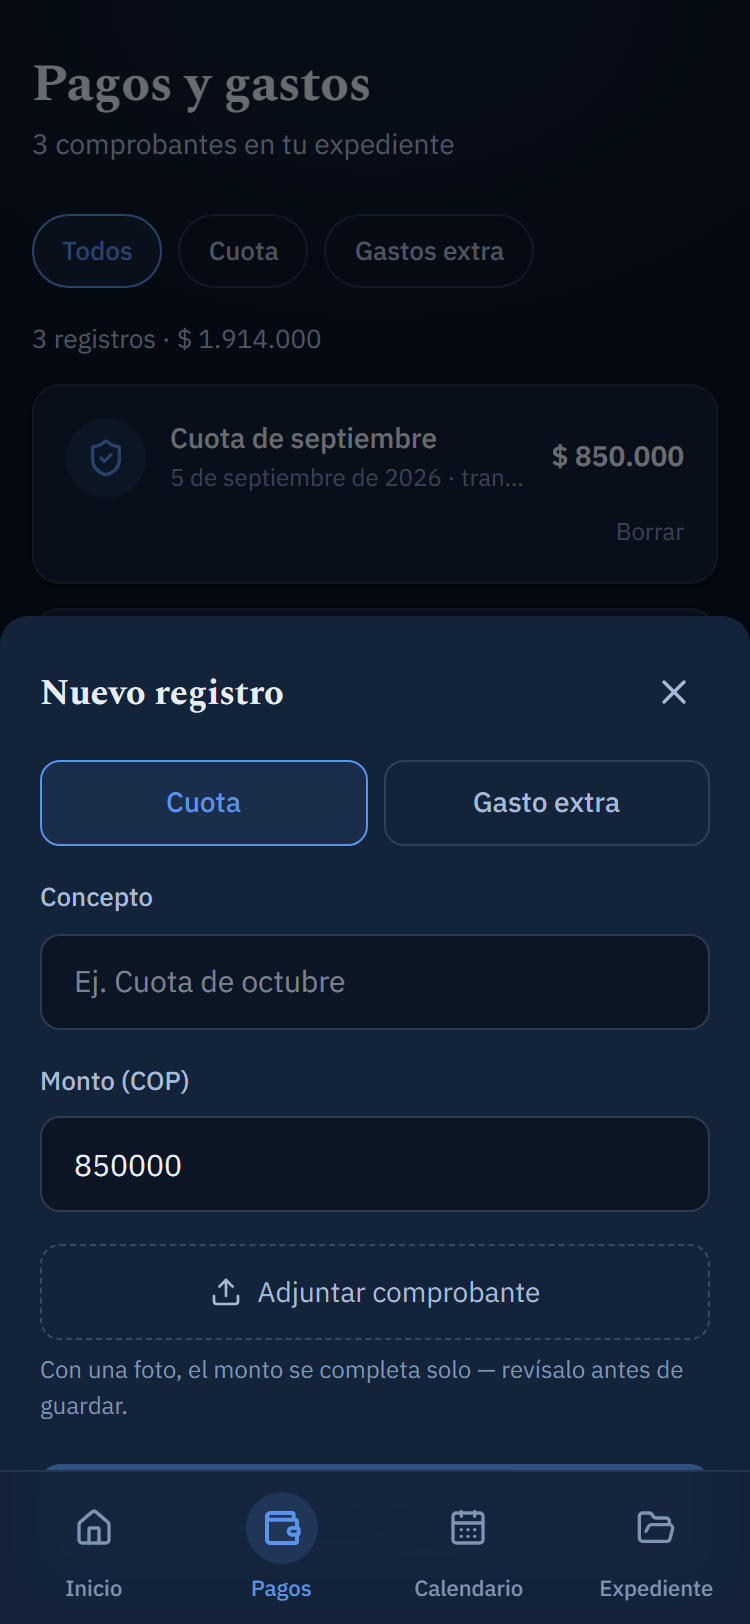
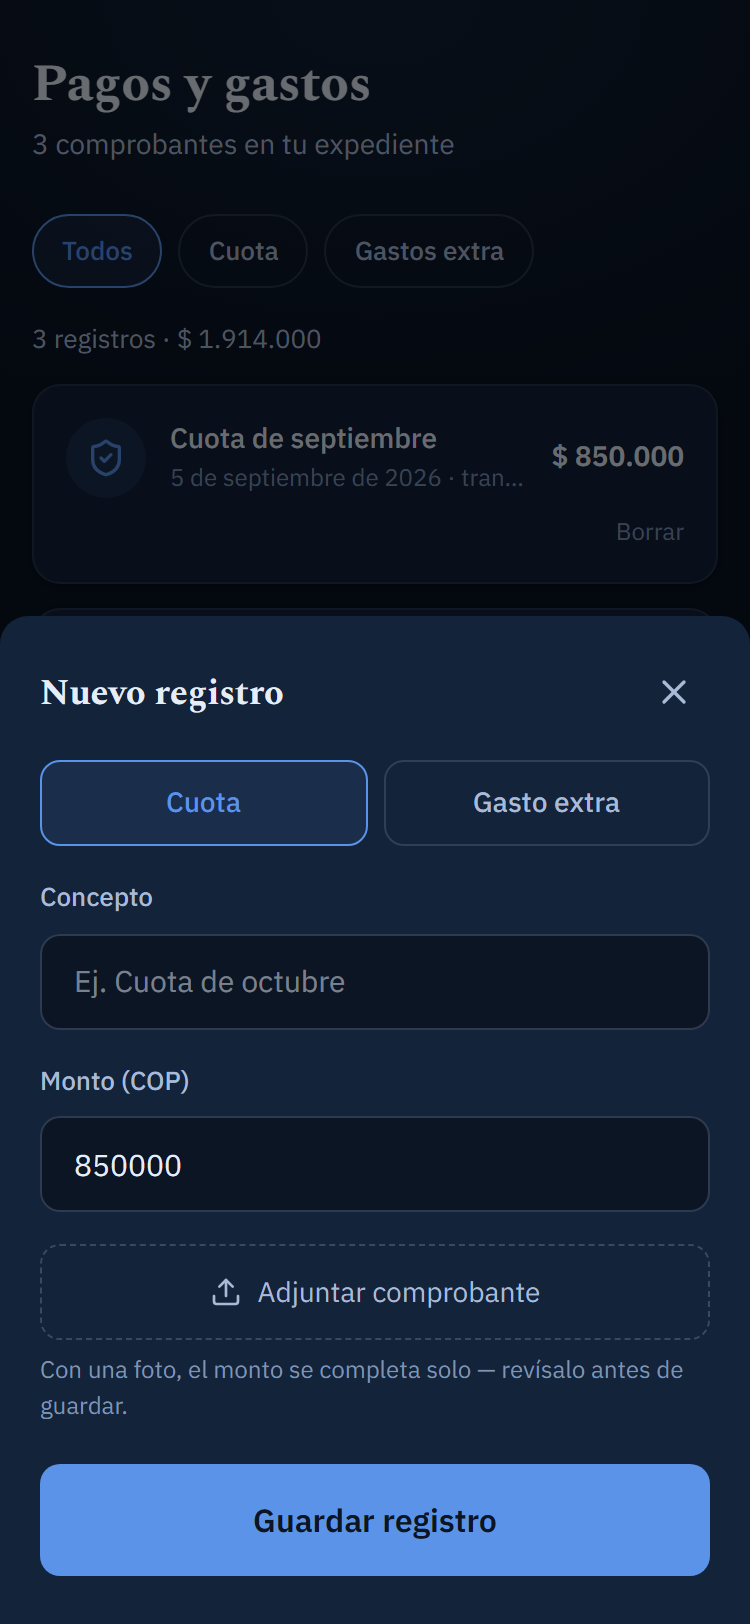
fix: el CTA del formulario quedaba TAPADO por el menu inferior
REGRESION MIA, grave y silenciosa. Al agregar la luz ambiental de fondo,
ContenedorApp paso a llevar 'relative isolate'. 'isolate' crea un
CONTEXTO DE APILAMIENTO: dentro de el, los z-index de los hijos solo
compiten entre ellos, no contra el resto de la pagina. Resultado: el
modal de registro (z-30), el visor de imagenes (z-40) y el Sello de
Confianza (z-40) quedaron atrapados y se pintaban DEBAJO del nav
inferior (z-20), que vive fuera, en el layout.

El sintoma: en el formulario de registro el nav tapaba 'Guardar
registro' -la accion primaria de todo el flujo- y solo asomaban unos
pixeles. Subir el z-index no lo arregla: mientras el elemento viva
dentro del contexto aislado, ningun numero lo saca. La solucion correcta
es montarlo fuera, en el body: nuevo <Portal>.

Verificado con Playwright, no por inspeccion: en el punto central del
CTA, document.elementFromPoint devuelve el propio boton (no el nav), el
boton entra completo en pantalla y es clicable.
(Mi primera medicion dio un falso positivo porque medi SUPERPOSICION
geometrica en vez de que elemento esta encima; una hoja modal se
superpone al nav a proposito.)

Ademas, del mismo veredicto:
- La prop 'conBotonFlotante' habia quedado en la rama de ERROR de Inicio
  -que ni siquiera tiene boton- en vez del Dashboard. Corregido: ahora
  el boton cae en el espacio vacio y ya no pisa la ultima tarjeta.
- El boton 'Guardar registro' estaba muerto al 40% sin decir que
[…]

Changed region(s): [[0.0307, 0.8929, 0.9507, 0.9852]]

diff --git a/app/(app)/pagos/page.tsx b/app/(app)/pagos/page.tsx
@@ -10,6 +10,7 @@ import { motion, AnimatePresence } from 'motion/react';
 import { Upload, ShieldCheck, FileCheck2, X, ChevronRight, Sparkles } from 'lucide-react';
 import { ContenedorApp, PageHeader, Tarjeta, IconoCirculo, BotonFlotante, ErrorDeCarga } from '@/components/app/ui';
 import { VisorImagen } from '@/components/app/VisorImagen';
+import { Portal } from '@/components/app/Portal';
 import { SelloConfianza } from '@/components/app/SelloConfianza';
 import { VistaPreviaArchivo } from '@/components/app/VistaPreviaArchivo';
 import {
@@ -88,7 +89,7 @@ export default function Pagos() {
     // Antes era `if (!url) return`: la persona tocaba su comprobante, no pasaba NADA y no sabia
     // si el archivo se habia perdido o si la app estaba rota. El silencio es el peor error.
     if (!url) {
-      setErrorFila({ id: p.id, mensaje: "No pudimos abrir este comprobante. Revisa tu conexion e intentalo de nuevo." });
+      setErrorFila({ id: p.id, mensaje: 'No pudimos abrir este comprobante. Revisa tu conexión e inténtalo de nuevo.' });
       return;
     }
     setErrorFila(null);
@@ -242,6 +243,7 @@ export default function Pagos() {
         Registrar
       </BotonFlotante>
 
+      <Portal>
       <AnimatePresence>
         {modalAbierto && (
           <ModalRegistro
@@ -256,12 +258,17 @@ export default function Pagos() {
           />
         )}
       </AnimatePresence>
+      </Portal>
 
+      <Portal>
       <AnimatePresence>
         {selloDe && <SelloConfianza fecha={formatoFechaLarga(selloDe)} onTerminar={() => setSelloDe(null)} />}
       </AnimatePresence>
+      </Portal>
 
-      <VisorImagen url={urlVisor} onCerrar={() => setUrlVisor(null)} />
+      <Portal>
+        <VisorImagen url={urlVisor} onCerrar={() => setUrlVisor(null)} />
+      </Portal>
     </ContenedorApp>
   );
 }
@@ -278,9 +285,13 @@ function ModalRegistro({ onCerrar, onGuardado }: { onCerrar: () => void; onGuard
   const inputRef = useRef<HTMLInputElement>(null);
 
   useEffect(() => {
-    obtenerTitulo().then((t: Titulo | null) => {
-      if (t) setMonto(String(t.montoMensual));
-    });
+    // Con .catch: si falla, el campo queda vacio para escribir a mano en vez de dejar un rechazo
+    // sin manejar en la consola.
+    obtenerTitulo()
+      .then((t: Titulo | null) => {
+        if (t) setMonto(String(t.montoMensual));
+      })
+      .catch(() => {});
   }, []);
 
   // Lector automático de recibos: al elegir la foto, se le pide a la IA que lea el monto y se
@@ -312,8 +323,25 @@ function ModalRegistro({ onCerrar, onGuardado }: { onCerrar: () => void; onGuard
     }
   };
 
+  // Qué falta para poder guardar, dicho en palabras. Se calcula solo al INTENTAR guardar (no
+  // mientras se escribe): regañar antes de que la persona termine de llenar es hostil.
+  const [faltante, setFaltante] = useState<string | null>(null);
+
   const guardar = (): void => {
-    if (!archivo || !monto || !concepto.trim()) return;
+    if (procesando) return;
+    if (!concepto.trim()) {
+      setFaltante('Falta el concepto: escribe de qué es este pago.');
+      return;
+    }
+    if (!monto) {
+      setFaltante('Falta el monto.');
+      return;
+    }
+    if (!archivo) {
+      setFaltante('Falta el comprobante: adjunta la foto o el PDF.');
+      return;
+    }
+    setFaltante(null);
     setProcesando(true);
     agregarPago(
       {
@@ -447,14 +475,22 @@ function ModalRegistro({ onCerrar, onGuardado }: { onCerrar: () => void; onGuard
           </button>
         )}
         {errorArchivo ? (
-          <p className="mt-1.5 text-[12px] text-[var(--status-error)]">{errorArchivo}</p>
+          <p role="alert" className="mt-1.5 text-[12px] text-[var(--status-error)]">{errorArchivo}</p>
         ) : (
           <p className="mt-1.5 text-[12px] text-[var(--text-tertiary)]">Con una foto, el monto se completa solo — revísalo antes de guardar.</p>
         )}
 
+        {/* El botón estaba muerto al 40% sin decir qué faltaba: había que adivinar cuál de los tres
+            campos estaba incompleto. Ahora se ve activo, y al tocarlo dice exactamente qué falta —
+            que es como funciona el editor de Ajustes. Solo se deshabilita mientras guarda. */}
+        {faltante && (
+          <p role="alert" className="mt-3 text-center text-[12.5px] text-[var(--status-error)]">
+            {faltante}
+          </p>
+        )}
         <button
           type="button"
-          disabled={!archivo || !monto || !concepto.trim() || procesando}
+          disabled={procesando}
           onClick={guardar}
           className="mt-5 flex h-14 w-full items-center justify-center rounded-[var(--radius-button)] bg-[var(--accent)] text-[16px] font-semibold text-[var(--bg)] transition-opacity disabled:opacity-40 [touch-action:manipulation]"
         >

diff --git a/app/(app)/calendario/page.tsx b/app/(app)/calendario/page.tsx
@@ -13,6 +13,7 @@ import { motion, AnimatePresence } from 'motion/react';
 import { ChevronLeft, ChevronRight, Plus, X, Users, HeartPulse, Plane, Trophy, Globe, Paperclip } from 'lucide-react';
 import { ContenedorApp, PageHeader, Tarjeta, IconoCirculo, BotonFlotante, ErrorDeCarga } from '@/components/app/ui';
 import { VisorImagen } from '@/components/app/VisorImagen';
+import { Portal } from '@/components/app/Portal';
 import { type Evento, type TipoEvento, obtenerEventos, agregarEvento, obtenerUrlArchivo, formatoFechaLarga, validarArchivoAdjunto } from '@/lib/datos';
 
 const ICONO: Record<TipoEvento, typeof Users> = { visita: Users, medica: HeartPulse, vacaciones: Plane, extracurricular: Trophy, salida_pais: Globe };
@@ -135,6 +136,7 @@ export default function Calendario() {
         Evento
       </BotonFlotante>
 
+      <Portal>
       <AnimatePresence>
         {modalAbierto && (
           <ModalEvento
@@ -147,6 +149,7 @@ export default function Calendario() {
           />
         )}
       </AnimatePresence>
+      </Portal>
     </ContenedorApp>
   );
 }
@@ -202,7 +205,9 @@ function TarjetaEvento({ evento: e }: { evento: Evento }) {
       <button type="button" onClick={abrirDocumento} disabled={abriendo} className="text-left [touch-action:manipulation]">
         <Tarjeta className="flex items-center gap-3">{contenido}</Tarjeta>
       </button>
-      <VisorImagen url={urlVisor} onCerrar={() => setUrlVisor(null)} />
+      <Portal>
+        <VisorImagen url={urlVisor} onCerrar={() => setUrlVisor(null)} />
+      </Portal>
     </>
   );
 }

diff --git a/components/app/Portal.tsx b/components/app/Portal.tsx
@@ -1,0 +1,28 @@
+'use client';
+
+// PORTAL — saca un elemento del árbol del DOM y lo monta directo en <body>.
+//
+// POR QUÉ HIZO FALTA (bug real, encontrado por el revisor-visual): al agregar la luz ambiental de
+// fondo, `ContenedorApp` pasó a llevar `relative isolate`. `isolate` crea un CONTEXTO DE
+// APILAMIENTO, y dentro de un contexto de apilamiento los z-index de los hijos solo compiten entre
+// ellos — no contra el resto de la página. Resultado: el modal de registro (z-30), el visor de
+// imágenes (z-40) y el Sello de Confianza (z-40) quedaron atrapados dentro de ese contexto y se
+// pintaban DEBAJO del nav inferior (z-20), que vive fuera, en el layout.
+//
+// El síntoma era grave y silencioso: en el formulario de registro, el nav tapaba el botón "Guardar
+// registro" —la acción primaria de todo el flujo— y solo asomaban unos pocos píxeles.
+//
+// Subir el z-index no lo arregla: mientras el elemento viva dentro del contexto aislado, ningún
+// número lo saca de ahí. La solución correcta es montarlo fuera, en el <body>.
+
+import { useEffect, useState, type ReactNode } from 'react';
+import { createPortal } from 'react-dom';
+
+export function Portal({ children }: { children: ReactNode }) {
+  // `document` no existe durante el render del servidor: se monta recién en el cliente.
+  const [montado, setMontado] = useState(false);
+  useEffect(() => setMontado(true), []);
+
+  if (!montado) return null;
+  return createPortal(children, document.body);
+}

diff --git a/app/(app)/inicio/page.tsx b/app/(app)/inicio/page.tsx
@@ -61,7 +61,7 @@ export default function Inicio() {
 
   if (fallo) {
     return (
-      <ContenedorApp conBotonFlotante>
+      <ContenedorApp>
         <PageHeader titulo="Tu expediente" palabraClave="expediente" halo />
         <ErrorDeCarga onReintentar={() => setIntento((n) => n + 1)} />
       </ContenedorApp>
@@ -479,7 +479,7 @@ function Dashboard() {
   const ultimosPagos = [...pagos].sort((a, b) => b.fecha.localeCompare(a.fecha)).slice(0, 3);
 
   return (
-    <ContenedorApp>
+    <ContenedorApp conBotonFlotante>
       {/* El <Marcador> de marca no existía en NINGUNA pantalla de la app interna, solo en el
           funnel: aquí el sello de identidad entra sobre la palabra que da nombre al producto. */}
       {/* La cuota ahora SE PUEDE editar (Ajustes), así que el dato lleva a donde se cambia: sin

diff --git a/docs/revisiones/pantalla-principal-veredicto.md b/docs/revisiones/pantalla-principal-veredicto.md
@@ -1,33 +1,14 @@
-# VEREDICTO revisor-visual — pantalla principal (Inicio)
-Fecha: 2026-09-10 18:40
+# VEREDICTO revisor-visual — Pantalla principal (Inicio)
+Fecha: 2026-09-10 00:00
 Screenshot: docs/revisiones/inicio-375.png
 Usabilidad: 28/40
-Craft: 15/20
+Craft: 14/20
 Copy (si vende): N-A
 Fidelidad (si hubo referencia): N-A
 Veredicto: NO LISTA
-
-Detalle usabilidad: h1:3 h2:3 h3:3 h4:3 h5:3 h6:3 h7:3 h8:3 h9:2 h10:2
-Detalle craft: jerarquía:3 profundidad:3 identidad:3 movimiento:4 encaje:2
-Capturas revisadas: docs/revisiones/inicio-375.png · docs/revisiones/inicio-vista-previa-375.png · docs/revisiones/app-pagos-375.png
-Código verificado: app/(app)/inicio/page.tsx · app/(app)/pagos/page.tsx · app/(app)/ajustes/page.tsx · components/app/ui.tsx · components/app/VistaPreviaArchivo.tsx · components/funnel/ui.tsx · components/landing/ui.tsx · lib/datos.ts · FICHA-ARTE.md
-
-Defectos 1-5 de la ronda anterior: VERIFICADOS COMO CORREGIDOS en código
-(error que tapa el dashboard entero · eliminarPago + confirmación de dos pasos · VistaPreviaArchivo
-elegir≠guardar · validación 1-31 y monto>0 en ambas puertas · Pildora éxito en #5B93E8 con ícono de
-check, conforme a FICHA-ARTE). No alcanzan el gate: los puntos que faltaban no vivían ahí.
-
 Top defectos:
-1. [Pagos → modal "Nuevo registro", guardar()] `agregarPago(...).then(...)` sin `.catch` (page.tsx ~L294): si falla la red, el botón queda en "Aplicando el Sello de Confianza…" para siempre y NO aparece ningún error — el mismo bug que se corrigió en primeros pasos sigue vivo en la puerta principal de registro → agregar `.catch` que apague `procesando` y muestre qué pasó + qué hacer.
-2. [Inicio → último ítem de "Últimos movimientos"] el `<BotonFlotante>` se monta sobre la última tarjeta: `ContenedorApp` tiene `pb-[calc(96px+safe)]` y el FAB llega a ~132px → subir el colchón inferior a `calc(150px+env(safe-area-inset-bottom))` en las pantallas con FAB.
-3. [Pagos → tocar un comprobante / borrar] `verComprobante` hace `if (!url) return` (fallo silencioso, sin spinner ni mensaje) y `errorBorrado` se pinta al final de la lista, fuera de pantalla con 4+ tarjetas → indicador de carga en la fila y mensaje de error DENTRO de la tarjeta que se intentó borrar.
-4. [Inicio → franja del próximo evento · Pagos → lista vacía] sin evento la tarjeta desaparece sin decir nada, y el vacío de Pagos es una línea gris sin ícono ni CTA (pantalla muda) → tarjeta "Sin eventos próximos · Agendar" y empty state de Pagos con el mismo patrón que el de Inicio.
-5. [Inicio → FAB "Registrar" y primeros pasos → "Guardar y continuar"] el FAB solo navega a /pagos, donde hay otro FAB idéntico que hay que volver a tocar; y el botón del alta se apaga al 40% sin decir por qué mientras Ajustes sí lo explica → abrir el modal de registro desde Inicio y mostrar el mismo hint de validación en ambas puertas.
-
-Pendientes menores confirmados: la flecha de Ajustes vuelve siempre a /expediente aunque se entre
-desde Inicio · el escalonado no es cascada real (la tarjeta del anillo no lleva `indice` y la lista
-reinicia el contador en 0) · en primeros pasos el monto del comprobante se toma del título sin que
-la persona pueda revisarlo antes de que entre al expediente · el modal de registro no cierra con Esc
-ni atrapa el foco · discrepancia de evidencia: en app-pagos-375.png "Borrar" aparece alineado a la
-IZQUIERDA cuando el código lo declara `self-end` (captura desactualizada o clase sobrescrita) —
-en ambos casos cada tarjeta arrastra una banda vacía de ~40px.
+1. Modal "Nuevo registro" (el formulario que abre el botón de Inicio) — el nav inferior TAPA el CTA "Guardar registro": `ContenedorApp` usa `relative isolate` (components/app/ui.tsx:354) y crea un contexto de apilamiento, así que el z-30 del modal, el z-40 de `VisorImagen` y el z-40 de `SelloConfianza` quedan por debajo del `<BottomNav>` z-20 del layout → fix: montar modal/visor/sello con `createPortal(document.body)` (o quitar `isolate` y aislar solo el halo).
+2. Inicio — el `<BotonFlotante>` SIGUE montado sobre la tercera tarjeta: `Dashboard()` renderiza `<ContenedorApp>` sin la prop nueva (app/(app)/inicio/page.tsx:482); `conBotonFlotante` solo se pasa en la rama de error (línea 64), que no tiene FAB → fix: `<ContenedorApp conBotonFlotante>` en `Dashboard`.
+3. Modal de registro — CTA muerto por defecto (`disabled={!archivo || !monto || !concepto.trim()}`, pagos/page.tsx:457) al 40% de opacidad y sin decir qué falta → fix: habilitado siempre, validar al click con hint bajo el campo incompleto.
+4. Pagos, error de fila — texto sin tildes ("conexion", "intentalo", pagos/page.tsx:91) frente al resto de la app con tildes; `errorArchivo` sin `role="alert"` (línea 450) y `obtenerTitulo()` del modal sin `.catch` (línea 281) → fix: corregir el copy, añadir role y catch.
+5. Inicio — el vacío de "Últimos movimientos" enseña pero no ofrece salida (sin CTA, inicio/page.tsx:604) y el escalonado no es cascada (índices 0,1,2 en las stats y otra vez 0,1,2 en la lista); la flecha de Ajustes vuelve siempre a /expediente → fix: CTA en el vacío, índice continuo, y back que respete el origen.
